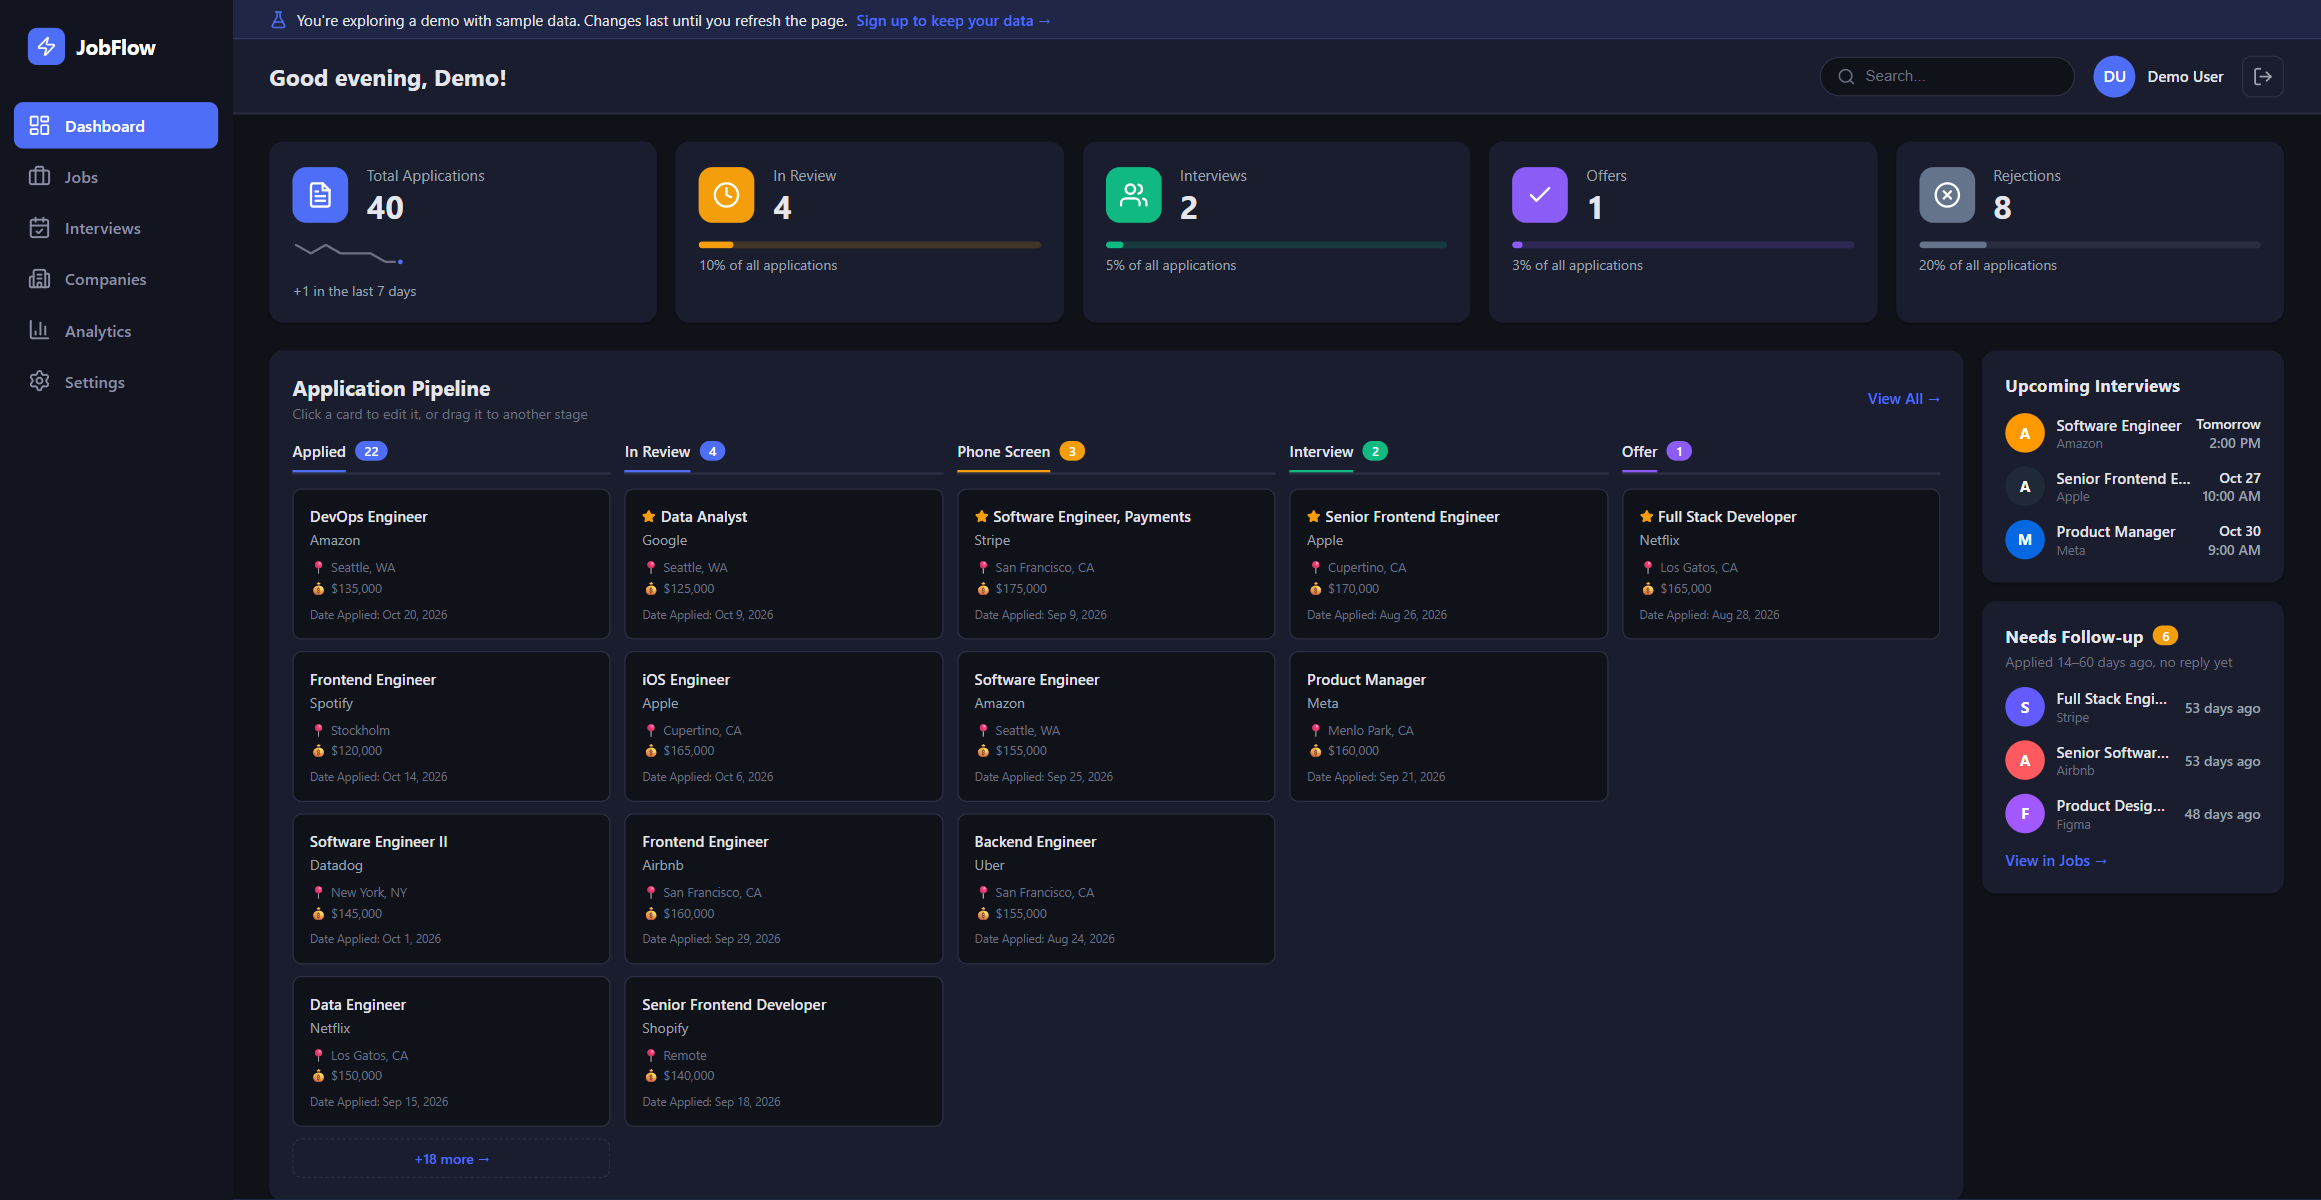
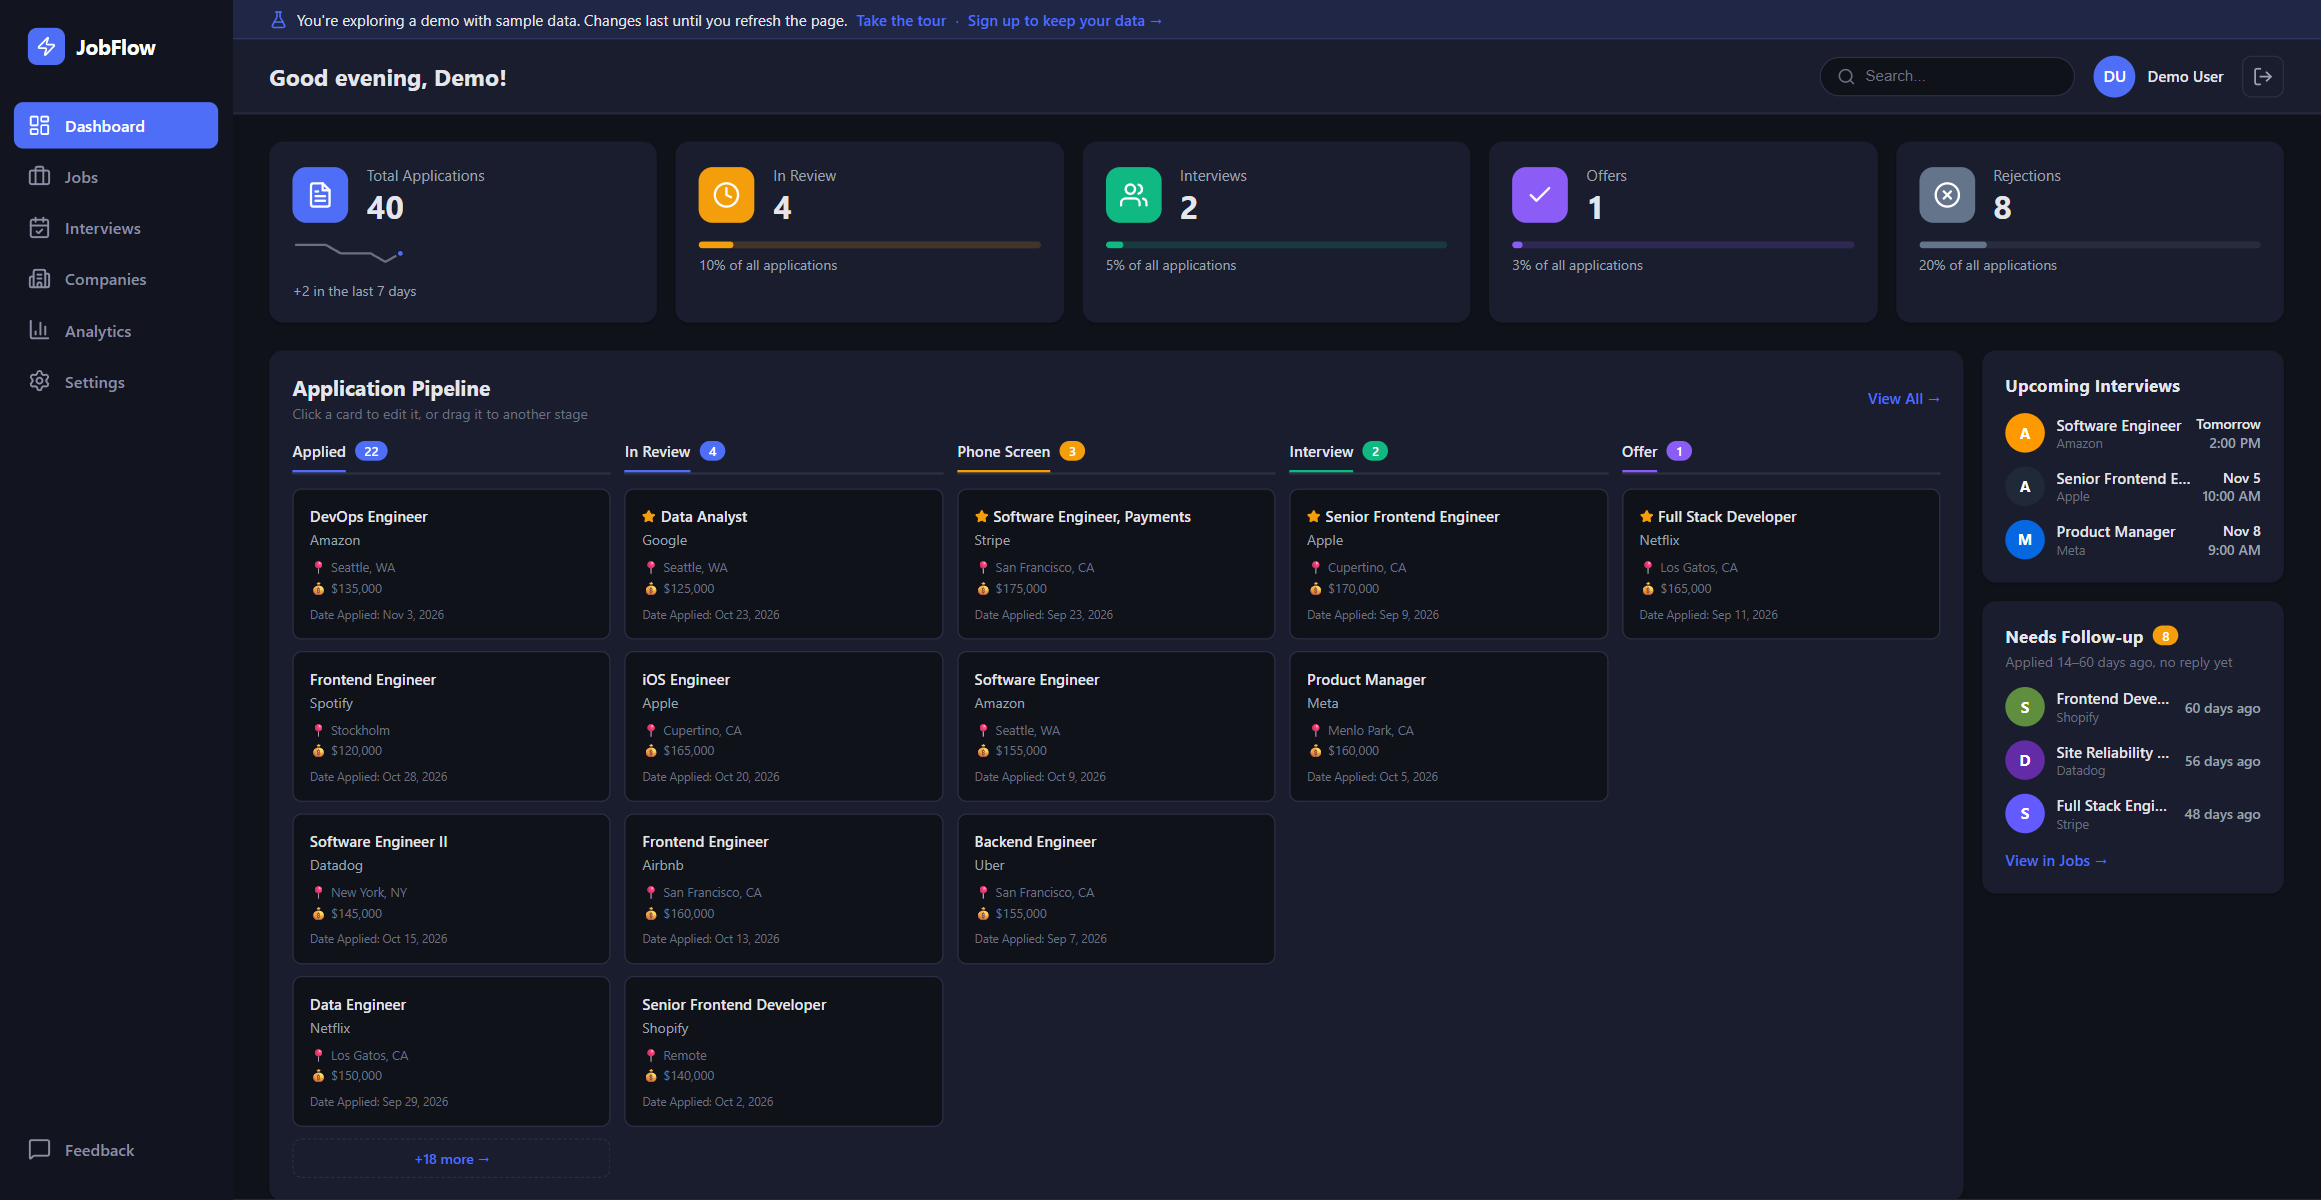
README: show the demo tour, and retake screenshots and the GIF
The demo banner gained a "Take the tour" link, so every demo screenshot
is retaken. Adds the tour on desktop and the tour plus checklist on
phones, and the GIF now opens with the tour. Interviews is left out of
the GIF to keep it from getting too long; it's still in the table.

diff --git a/README.md b/README.md
@@ -14,7 +14,7 @@ A full-stack job application tracker with JWT + OAuth2 authentication, Kanban pi
 
 ## Screenshots
 
-<img src="docs/demo.gif" alt="JobFlow demo: try the demo, drag a card across the pipeline, search and star jobs, browse interviews and analytics, then switch to dark mode and Chinese">
+<img src="docs/demo.gif" alt="JobFlow demo: try the demo, follow the short tour and drag a card across the pipeline, then search and star jobs, open analytics and switch to dark mode and Chinese while the checklist ticks itself off">
 
 <table>
   <tr>
@@ -36,6 +36,10 @@ A full-stack job application tracker with JWT + OAuth2 authentication, Kanban pi
   <tr>
     <td align="center"><strong>Feedback</strong><br><a href="docs/feedback.png"><img src="docs/feedback.png" alt="Feedback form opened from the sidebar" width="400"></a></td>
     <td align="center"><strong>Feedback on Phones</strong><br><a href="docs/feedback-mobile.png"><img src="docs/feedback-mobile.png" alt="Feedback card at the bottom of Settings on a phone, and the form it opens" width="400"></a></td>
+  </tr>
+  <tr>
+    <td align="center"><strong>Demo Tour</strong><br><a href="docs/tour.png"><img src="docs/tour.png" alt="Demo tour spotlighting the pipeline, with an animated hint showing how to drag a card to the next stage" width="400"></a></td>
+    <td align="center"><strong>Tour &amp; Checklist on Phones</strong><br><a href="docs/onboarding-mobile.png"><img src="docs/onboarding-mobile.png" alt="The tour on a phone, and the things-to-try checklist with two items ticked off" width="400"></a></td>
   </tr>
 </table>
 
@@ -67,6 +71,7 @@ A full-stack job application tracker with JWT + OAuth2 authentication, Kanban pi
 - **Global search** — Search applications and companies from the top bar
 - **Settings** — Profile, password, theme (dark/light), language (English/中文), and time zone
 - **Account deletion** — Delete your account from Settings; all your data goes with it
+- **Demo tour** — First-time demo visitors get a three-step tour that has them drag a real card before moving on, then a small checklist (add an application, star or search, open Analytics, switch theme or language) that ticks itself off as they explore and ends with a sign-up button
 - **Feedback** — Send a bug report or idea from the sidebar (Settings on phones), also from the demo. Each message is saved and emailed to the maintainer, with a honeypot, a per-IP hourly limit and a daily cap against spam
 
 ## Getting Started
